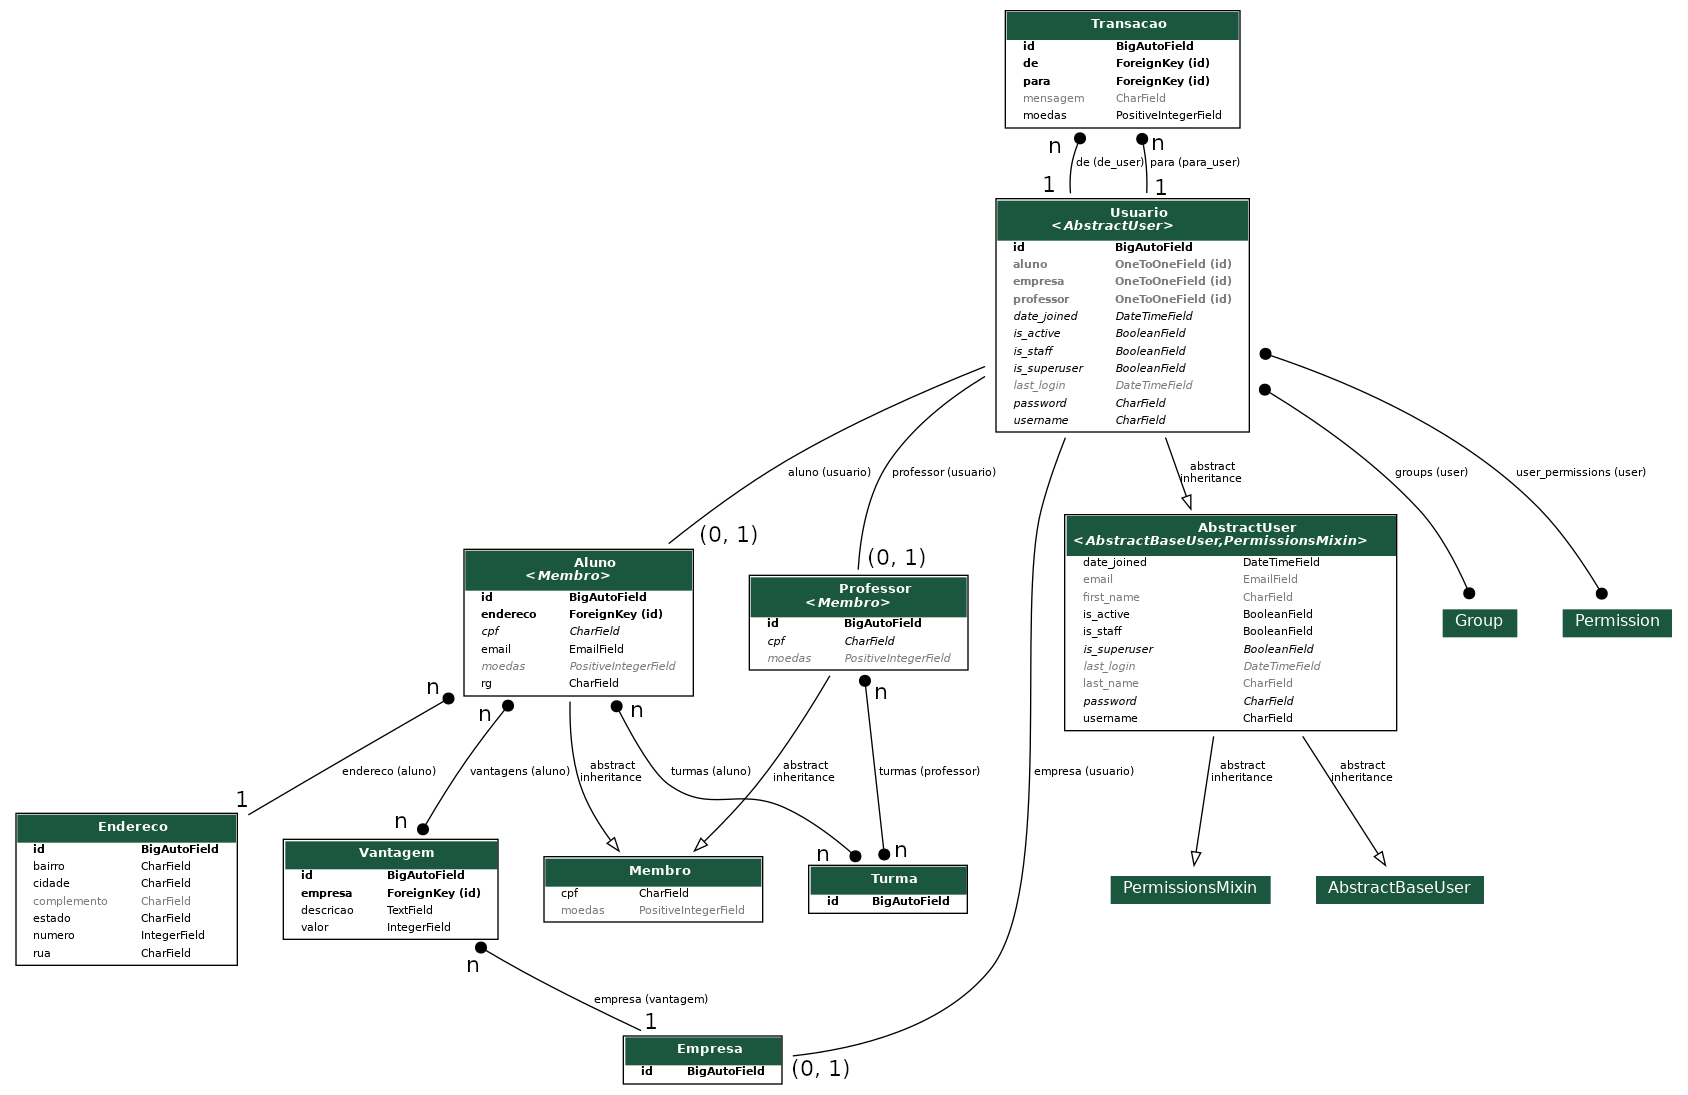
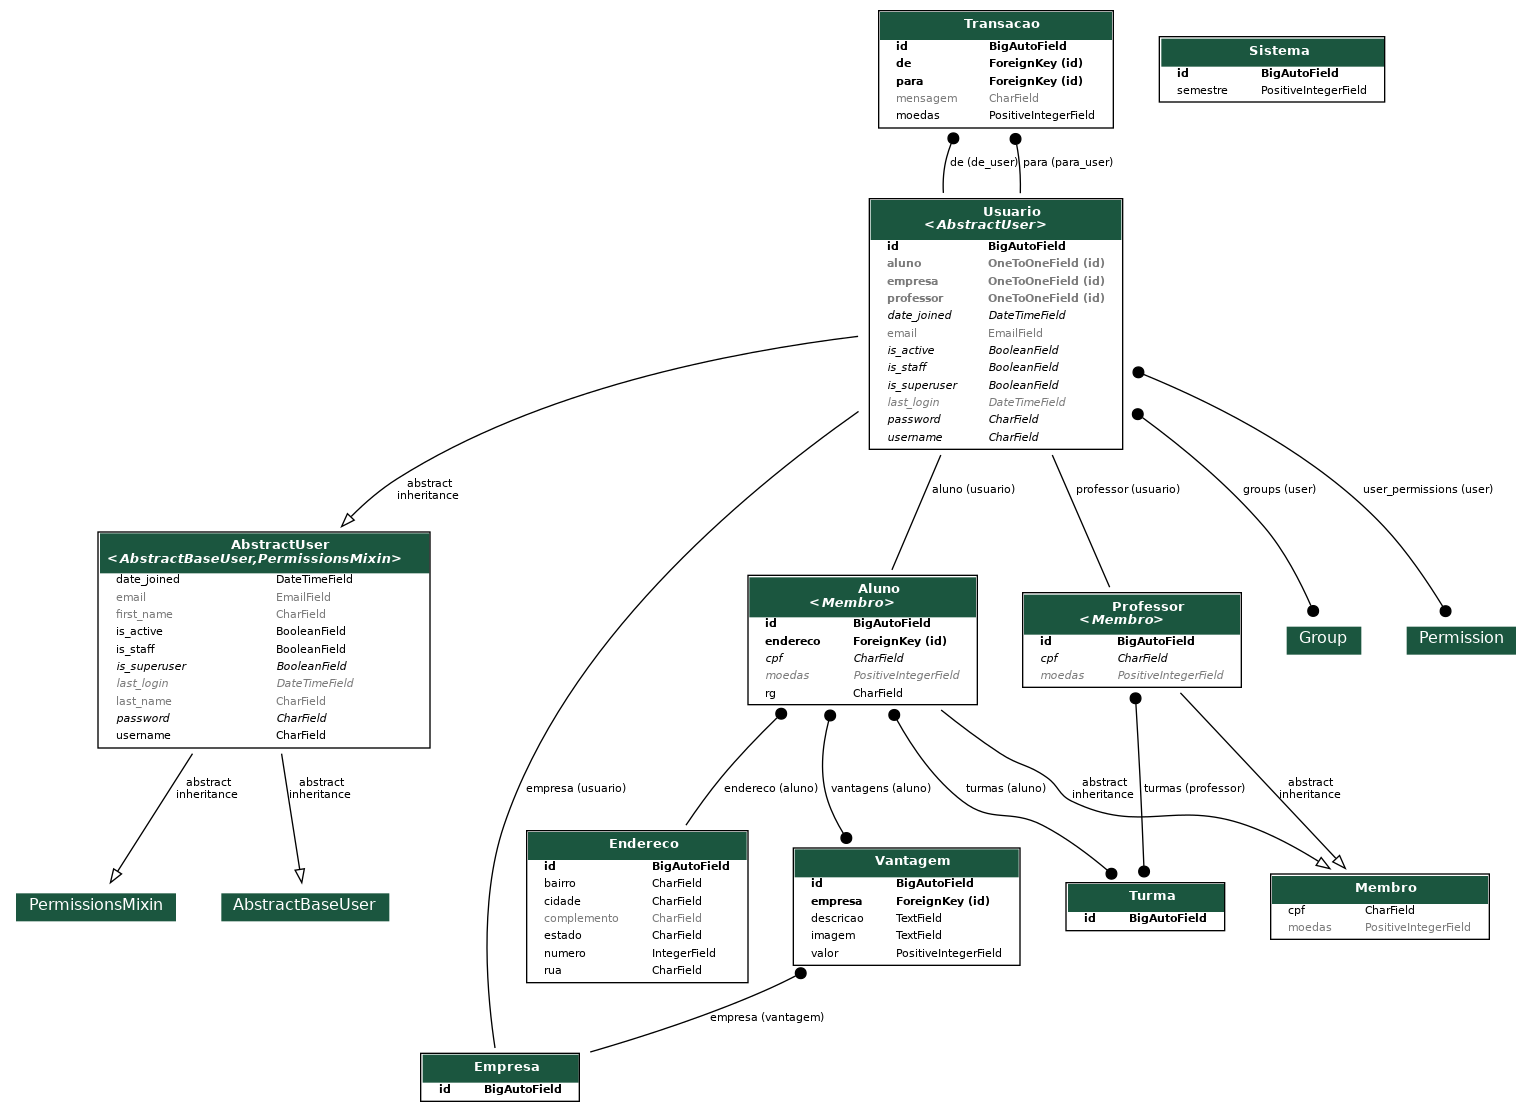
docs: modelo ER e legenda

Changed region(s): [[0.0, 0.0, 1.0, 0.9936], [0.8897, 0.4037, 0.951, 0.4658], [0.4602, 0.9005, 0.5215, 0.9315]]

diff --git a/docs/db/README.md b/docs/db/README.md
@@ -9,3 +9,7 @@ Ao criar uma instância de modelo, com `Aluno.objects.create(...)` e `.save()`, 
 Da mesma forma, ao consultar dados usando o ORM, como `Aluno.objects.filter(...)`, o Django gera consultas SQL para buscar os dados do banco de dados e retorna objetos Python que correspondem a esses dados.
 
 A estratégia de acesso ao banco de dados é eficiente e segura, pois o Django lida com muitos detalhes de baixo nível, permitindo a nós salvar e recuperar dados sem escrever SQL diretamente e sem se preocupar com a segurança.
+
+**Na modelagem, relação terminada em bola significa que o lado é "n" da relação.**
+
+**Já a relação terminada em ponta significa que o lado é "1" da relação.**
